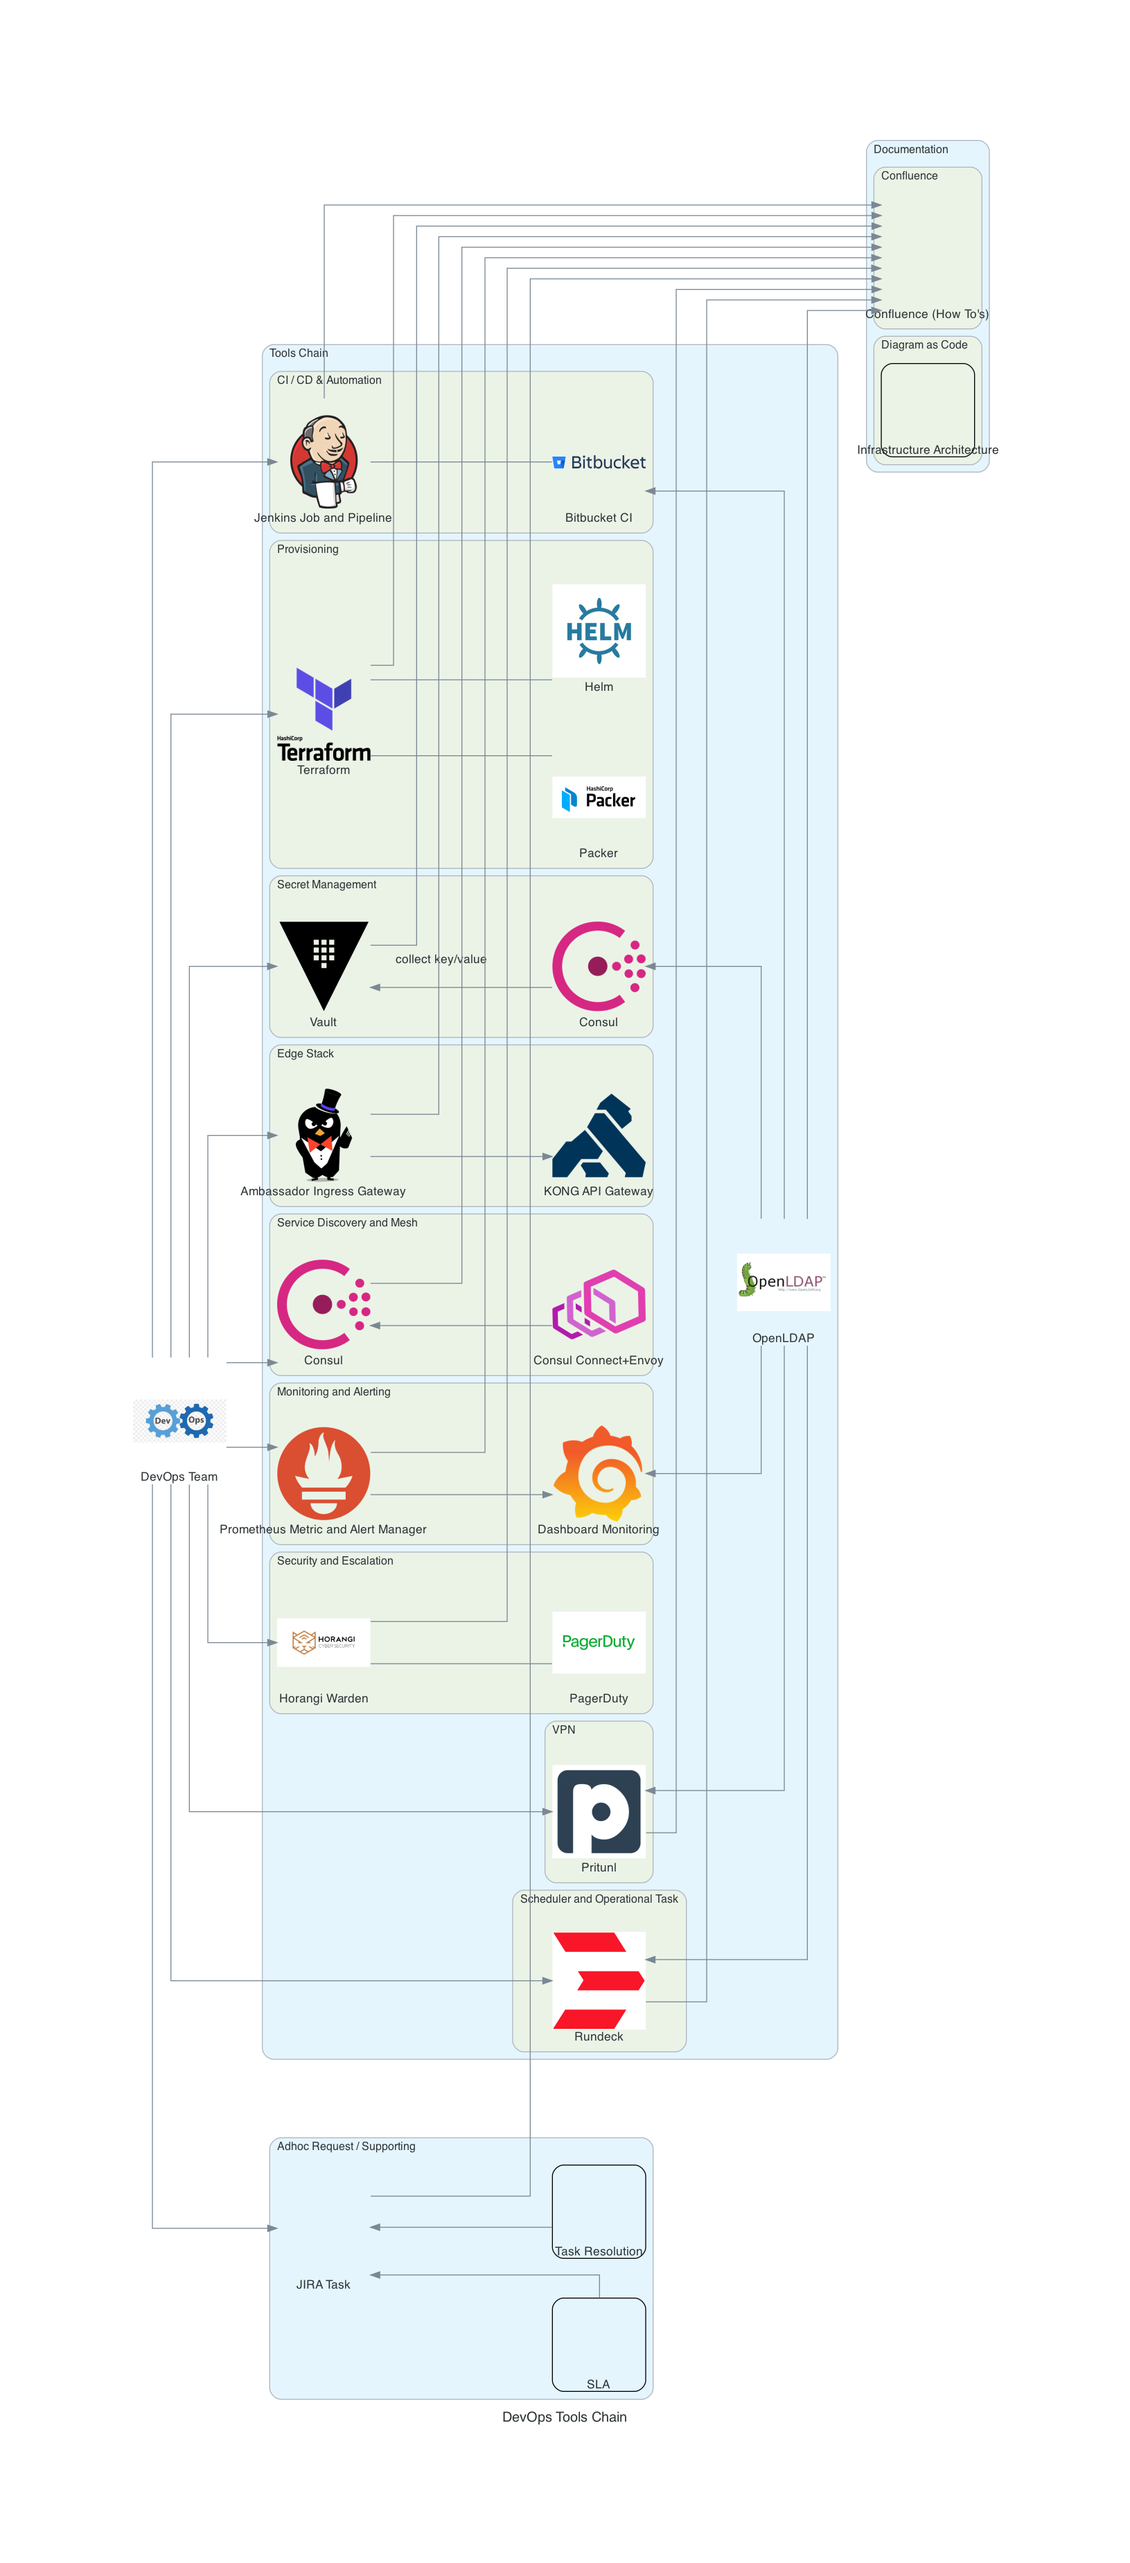
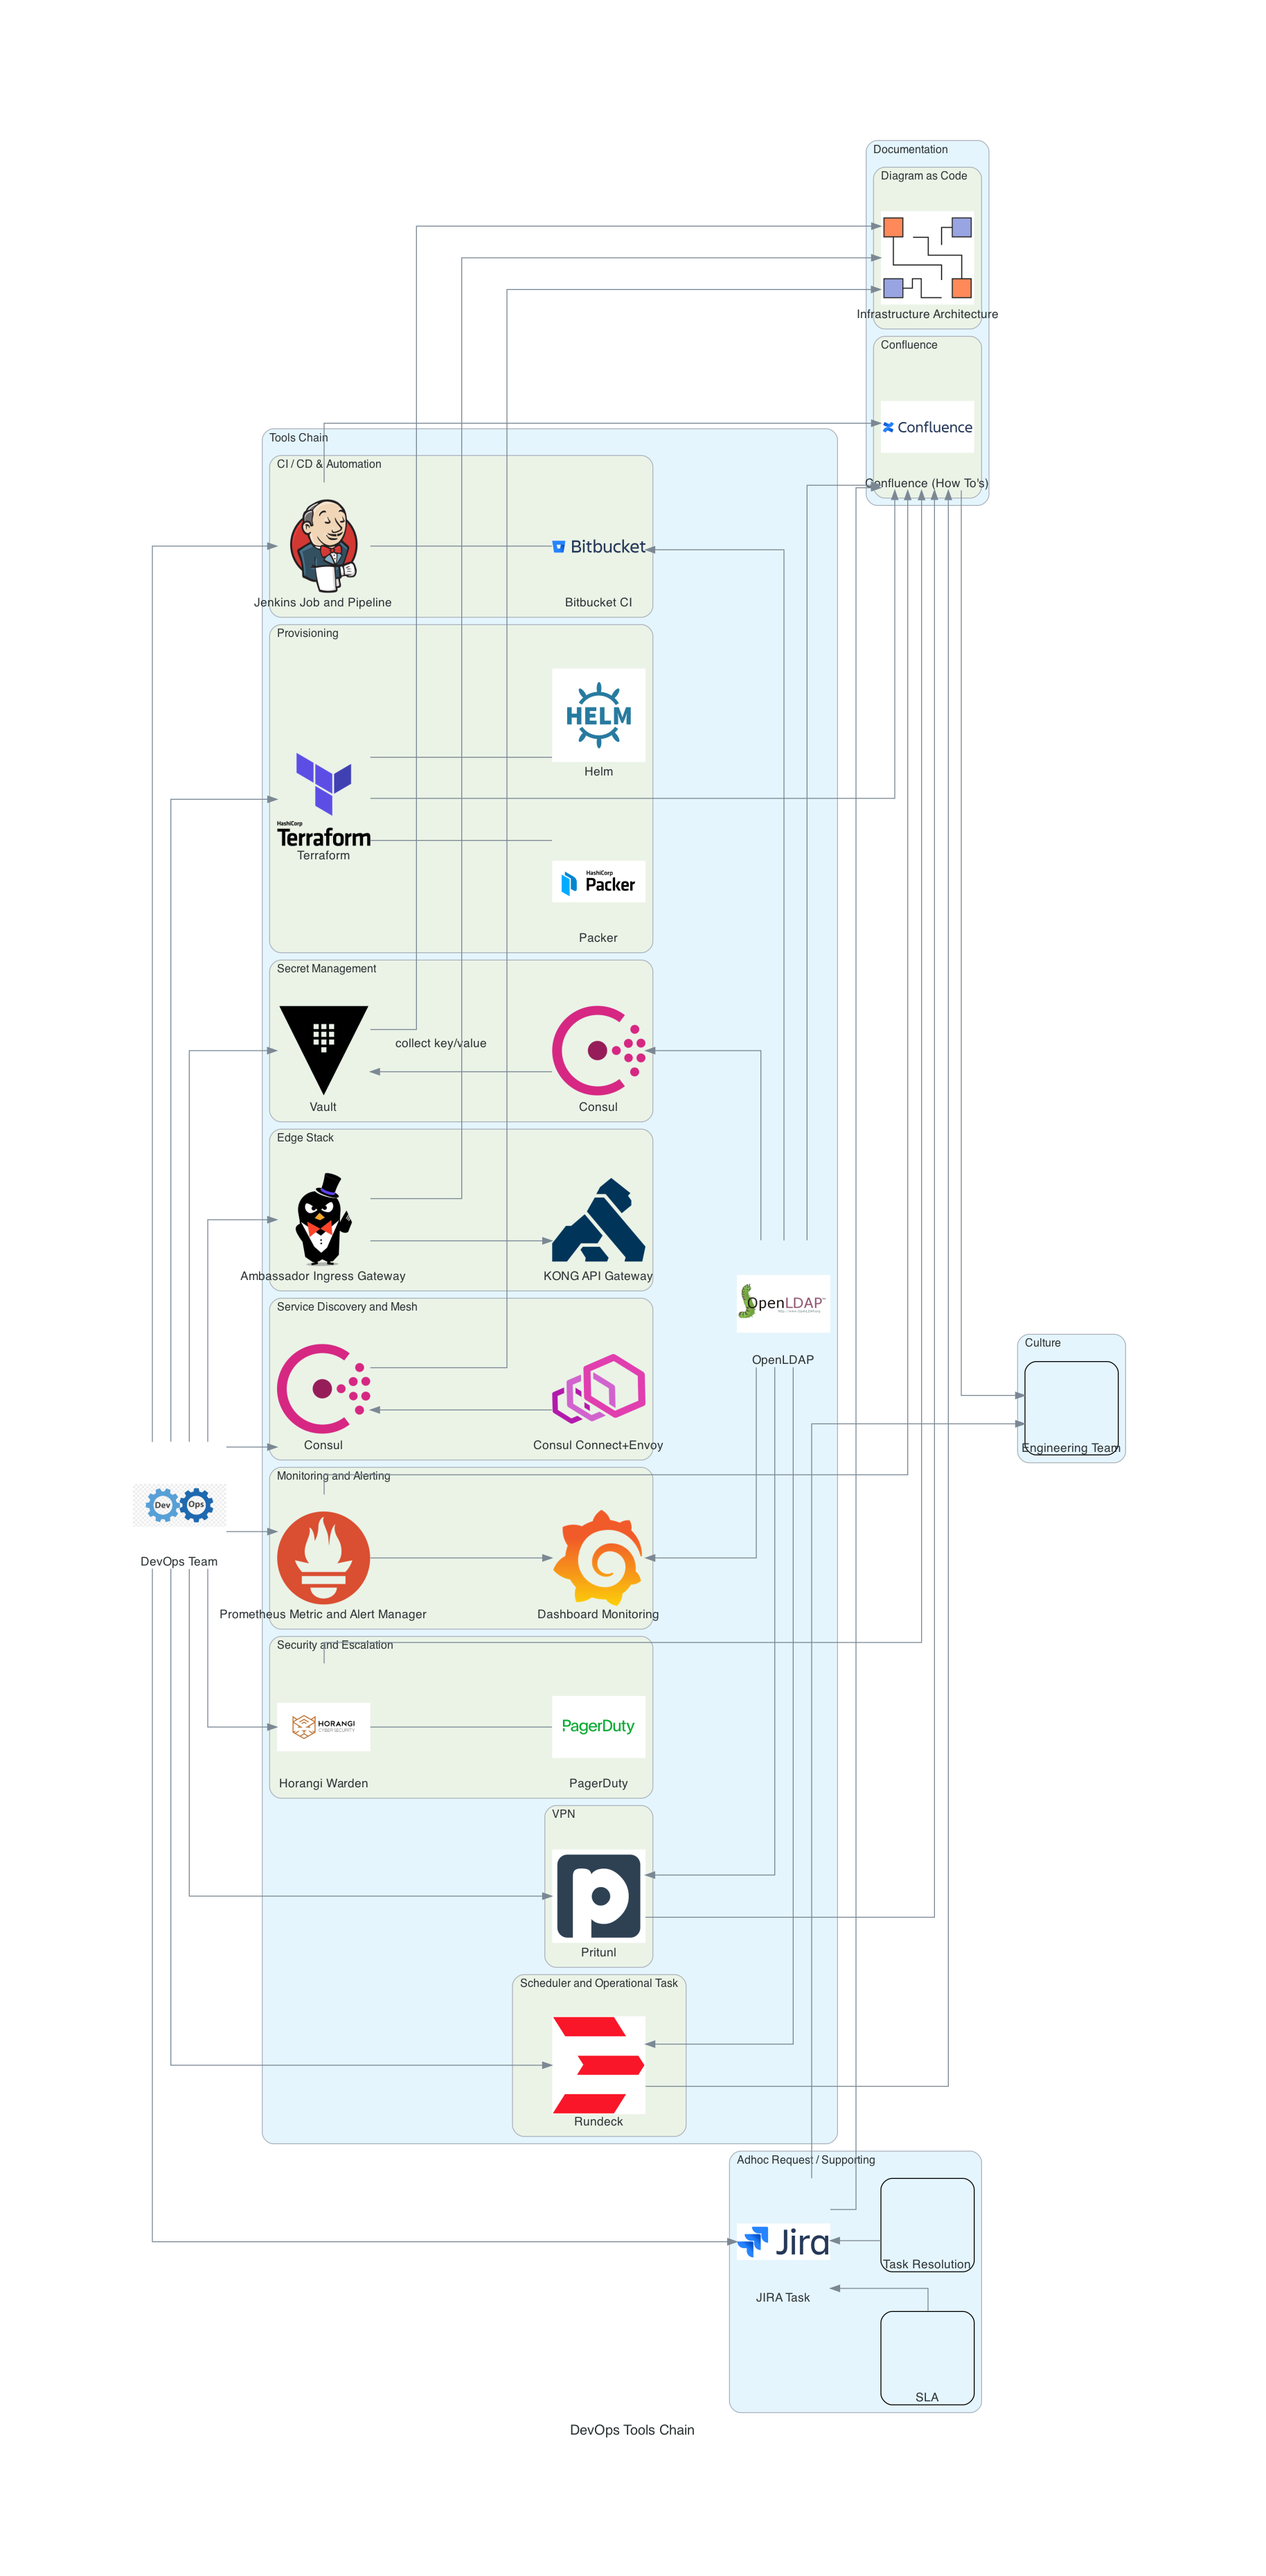
add culture

Changed region(s): [[0.1226, 0.0311, 0.889, 0.9638], [0.7971, 0.4974, 0.889, 0.5907]]

diff --git a/diagram.py b/diagram.py
@@ -13,6 +13,13 @@ with Diagram("DevOps Tools Chain", show=False):
 
     devops_team = Custom("DevOps Team", "./resources/devops.png")
 
+    with Cluster("Documentation"):
+        with Cluster("Confluence"):
+            documentation = Custom("Confluence (How To's)", "./resources/confluence.png")
+
+        with Cluster("Diagram as Code"):
+            diagram_as_code = Custom("Infrastructure Architecture", "./resources/diagram.png")
+
     with Cluster("Tools Chain"):
         openldap = Custom("OpenLDAP", "./resources/openldap.png")
 
@@ -20,77 +27,81 @@ with Diagram("DevOps Tools Chain", show=False):
             continous_integration = Jenkins("Jenkins Job and Pipeline")
             continous_integration - [Custom("Bitbucket CI", "./resources/bitbucket.png")] << openldap
 
-            devops_team >> continous_integration
+            devops_team >> continous_integration >> documentation
         
         with Cluster("Provisioning"):
             provisioning = Terraform("Terraform")
             provisioning - [Custom("Packer", "./resources/packer.png"), Custom("Helm", "./resources/helm.png")]
 
-            devops_team >> provisioning
+            devops_team >> provisioning >> documentation
 
         with Cluster("Secret Management"):
             secret_management = Vault("Vault")
             secret_management << Edge(label="collect key/value") << [Consul("Consul")] << openldap
 
-            devops_team >> secret_management
+            devops_team >> secret_management >> diagram_as_code
 
         with Cluster("Edge Stack", direction="LR"):
             edge_stack = Ambassador("Ambassador Ingress Gateway")
             edge_stack >> [Kong("KONG API Gateway")]
 
-            devops_team >> edge_stack
+            devops_team >> edge_stack >> diagram_as_code
 
         with Cluster("Service Discovery and Mesh"):
             service_discovery_mesh = Consul("Consul")
             service_discovery_mesh << [Envoy("Consul Connect+Envoy")]
 
-            devops_team >> service_discovery_mesh
+            devops_team >> service_discovery_mesh >> diagram_as_code
 
         with Cluster("Monitoring and Alerting"):
             monitoring = Prometheus("Prometheus Metric and Alert Manager")
             monitoring >> [Grafana("Dashboard Monitoring")] << openldap
 
-            devops_team >> monitoring
+            devops_team >> monitoring >> documentation
 
         with Cluster("Scheduler and Operational Task"):
             rundeck = Custom("Rundeck", "./resources/rundeck.png")
+            rundeck << [openldap]
 
-            devops_team >> rundeck << openldap
+            devops_team >> rundeck >> documentation
         
         with Cluster("VPN"):
-            vpn = Custom("Pritunl", "./resources/pritunl.png") 
+            vpn = Custom("Pritunl", "./resources/pritunl.png")
+            vpn << [openldap]
 
-            devops_team >> vpn << openldap
+            devops_team >> vpn >> documentation
+        
+        openldap >> documentation
 
         with Cluster("Security and Escalation"):
             escalation = Custom("Horangi Warden", "./resources/horangi.png")
             escalation - [Custom("PagerDuty", "./resources/pagerduty.png")]
 
-            devops_team >> escalation
+            devops_team >> escalation >> documentation
     
     with Cluster("Adhoc Request / Supporting"):
-        supporting = Custom("JIRA Task", "./resources/confluence.png")
+        supporting = Custom("JIRA Task", "./resources/jira.png")
         supporting << [Custom("SLA", ""), Custom("Task Resolution", "")]
 
-        devops_team >> supporting
+        devops_team >> supporting >> documentation
 
-    with Cluster("Documentation"):
-        with Cluster("Confluence"):
-            documentation = Custom("Confluence (How To's)", "./resources/confluence.png")
+    with Cluster("Culture"):
+        culture = Custom("Engineering Team", "")
+        documentation >> culture
+        supporting >> culture
 
-        with Cluster("Diagram as Code"):
-            diargam_as_code = Custom("Infrastructure Architecture", "")
+    
 
-        continous_integration >> documentation
-        provisioning >> documentation
-        secret_management >> documentation
-        edge_stack >> documentation
-        service_discovery_mesh >> documentation
-        openldap >> documentation
-        monitoring >> documentation
-        rundeck >> documentation
-        vpn >> documentation
-        escalation >> documentation
-        supporting >> documentation
+        # continous_integration >> documentation
+        # provisioning >> documentation
+        # secret_management >> documentation
+        # edge_stack >> documentation
+        # service_discovery_mesh >> documentation
+        # openldap >> documentation
+        # monitoring >> documentation
+        # rundeck >> documentation
+        # vpn >> documentation
+        # escalation >> documentation
+        # supporting >> documentation
 
         
